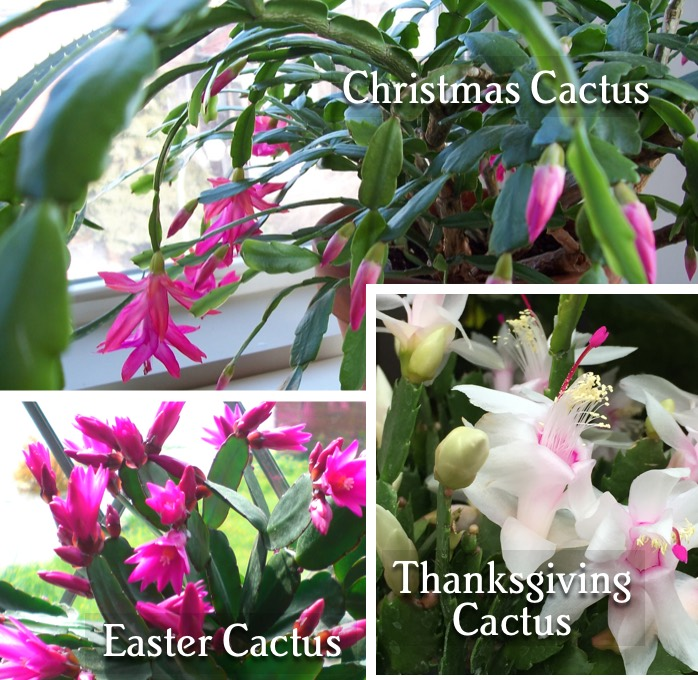
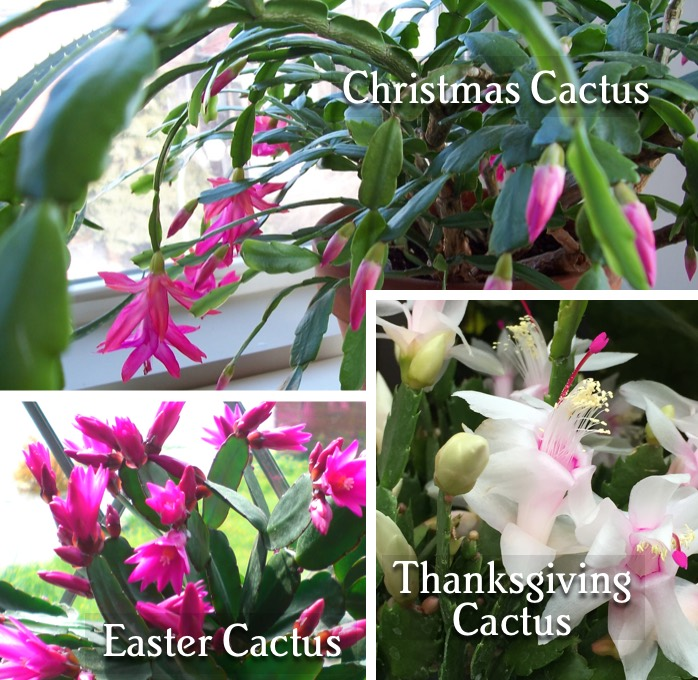
christmas cac tus

Changed region(s): [[0.5115, 0.4015, 1.0, 1.0], [0.692, 0.8647, 0.7221, 0.8956]]

diff --git a/current-news.html b/current-news.html
@@ -112,18 +112,11 @@
                                                                                 <tr>
                                                                                     <td style="border: 0px solid transparent; padding: 0 20px; color: #555555;width: 100%;">
 
- <div style="font-family:'Josefin Sans',Arial, Helvetica, sans-serif;font-size:24px;font-weight: 300;color:#555555;line-height:1.4;padding:0 10px;text-align: left; margin: 15px 0;">The Christmas cactus is native to tropical rain forests, unlike the vast majority of cacti, which grow in dry desert areas. In nature, this plant grows on trees and shrubs, its roots serving as a means of secure attachment to the host; most other cacti grow rooted in the ground. As a result of these dissimilarities and others, the Christmas cactus is cared for quite differently than most of its relatives.</div>
- <div style="font-family:'Josefin Sans',Arial, Helvetica, sans-serif;font-size:28px;font-weight: 300;color:#555555;line-height:1.4;padding:0 10px;text-align: center; margin: 15px 0;">Light</div>
- <div style="font-family:'Josefin Sans',Arial, Helvetica, sans-serif;font-size:24px;font-weight: 300;color:#555555;line-height:1.4;padding:0 10px;text-align: left; margin: 15px 0;">The Christmas cactus requires direct sunlight. However, during the summer months when light intensity is high this plant may need protection from the midday sun, which can burn the stems. Thus, during summer, move the plant a few feet from the window, close to sheer curtains, partially close to Venetian blinds, or place the plant in a window, which receives indirect light.</div>
- <div style="font-family:'Josefin Sans',Arial, Helvetica, sans-serif;font-size:28px;font-weight: 300;color:#555555;line-height:1.4;padding:0 10px;text-align: center; margin: 15px 0;">Water</div>
- <div style="font-family:'Josefin Sans',Arial, Helvetica, sans-serif;font-size:24px;font-weight: 300;color:#555555;line-height:1.4;padding:0 10px;text-align: left; margin: 15px 0;">The Christmas cactus should be watered when the top inch of soil in the container feels decidedly dry to the touch. Then, soak the soil thoroughly, until water comes through the drainage holes in the bottom of the pot. Wait 15 minutes and discard the excess water, which has accumulated in the drip plate beneath the container.</div>
- <div style="font-family:'Josefin Sans',Arial, Helvetica, sans-serif;font-size:28px;font-weight: 300;color:#555555;line-height:1.4;padding:0 10px;text-align: center; margin: 15px 0;">Humidity</div>
- <div style="font-family:'Josefin Sans',Arial, Helvetica, sans-serif;font-size:24px;font-weight: 300;color:#555555;line-height:1.4;padding:0 10px;text-align: left; margin: 15px 0;">This cactus grows best when humidity is high. The best way to increase humidity is to place the pot, with its drip plate, on a tray filled with small pebbles. Pour water over the pebbles, but do not allow the water to rise above the bottom of the top layer of pebbles. The water will evaporate from the tray and humidify the air around the plant.</div>
- <div style="font-family:'Josefin Sans',Arial, Helvetica, sans-serif;font-size:28px;font-weight: 300;color:#555555;line-height:1.4;padding:0 10px;text-align: center; margin: 15px 0;">Soil</div>
- <div style="font-family:'Josefin Sans',Arial, Helvetica, sans-serif;font-size:24px;font-weight: 300;color:#555555;line-height:1.4;padding:0 10px;text-align: left; margin: 15px 0;">A soil mix consisting of equal parts of peat moss, perlite and packaged potting soil is suitable for the Christmas cactus. Add 1-teaspoon dolomitic limestone and 1 teaspoon 5-10-5 fertilizer for each 2 quarts of soil used.</div>
- <div style="font-family:'Josefin Sans',Arial, Helvetica, sans-serif;font-size:28px;font-weight: 300;color:#555555;line-height:1.4;padding:0 10px;text-align: center; margin: 15px 0;">Fertilizer</div>
- <div style="font-family:'Josefin Sans',Arial, Helvetica, sans-serif;font-size:24px;font-weight: 300;color:#555555;line-height:1.4;padding:0 10px;text-align: left; margin: 15px 0;">Fertilize the plant with a water-soluble chemical fertilizer recommended for flowering houseplants. Water pot before fertilizing to prevent root damage; apply fertilizer every month at full strength or every 2 weeks at half the strength suggested on the label. Reduce the frequency of fertilization from autumn until after plants have flowered and new growth has begun.</div>
-																						</td>
+ <div style="font-family:'Josefin Sans',Arial, Helvetica, sans-serif;font-size:24px;font-weight: 300;color:#555555;line-height:1.4;padding:0 10px;text-align: left; margin: 15px 0;">Just a reminder: we will be closed on Thanksgiving but will be open Friday. We hope to see you on Small Business Saturday!</div>
+ <div style="font-family:'Josefin Sans',Arial, Helvetica, sans-serif;font-size:28px;font-weight: 300;color:#555555;line-height:1.4;padding:0 10px;text-align: center; margin: 15px 0;">Pictured is our November container: Thankful for Pink</div>
+ <div style="font-family:'Josefin Sans',Arial, Helvetica, sans-serif;font-size:24px;font-weight: 300;color:#555555;line-height:1.4;padding:0 10px;text-align: left; margin: 15px 0;">Our November container is one that could easily become part of your holiday decor! The central stunning plant is <em>Cordyline</em> ‘Red Star’ surrounded by blooming <em>Erica v.</em> ‘African Fanfare’.</div>
+ <div style="font-family:'Josefin Sans',Arial, Helvetica, sans-serif;font-size:24px;font-weight: 300;color:#555555;line-height:1.4;padding:0 10px;text-align: left; margin: 15px 0;">You'll find the full recipe on our <a target="_blank" href="https://portlandnursery.com/container-gardens/">Container Page.</a></div>
+																			</td>
 																					        </tr>
 												                                   </tbody>
                                                     						</table><!-- End Intro Article-->
@@ -160,7 +153,7 @@
                                                         <tbody>
                                                               <tr>
                                                                   <td style="border: 0px solid transparent; padding: 0; color: #555555;width: 100%;">
-                                                                   <div class="noWrapImageWrapper" style="text-align: center; margin: 10px 0 0; padding: 0;"><img alt="Roses" src="https://portlandnursery.com/newsletter/images/sales/bulbsale.jpg" style="margin: 0;display: inline;"></div>
+                                                                   <div class="noWrapImageWrapper" style="text-align: center; margin: 10px 0 0; padding: 0;"><img alt="Roses" src="https://portlandnursery.com/newsletter/images/sales/bulbsale2.jpg" style="margin: 0;display: inline;"></div>
                                                                  </td>
                                                               </tr>
                                                         </tbody>
@@ -203,46 +196,7 @@
                                             </td>
                                         </tr><!-- End Divider Row -->
 
-                                      <!-- ==================== Divider Row ===================== -->
-                                        <tr>
-                                            <td style="border: 0px solid transparent; padding: 0; color: #555555;width: 100%;">
-                                                <div style="text-align:center;" class="">
-                                                    <table border="0" cellpadding="0" cellspacing="0" width="100%" style="table-layout: fixed;">
-                                                        <tbody>
-                                                            <tr>
-                                                                <td style="border: 0px solid transparent; padding: 0 20px; color: #555555;width: 100%;">
-                                                                    <div class="noWrapImageWrapper" style="border-top:1px solid #CCC;text-align: center; margin: 20px 0; padding: 0;"><img alt="" src="https://portlandnursery.com/images-layout/spacer_CCCCCC.gif" style="margin: 0;display: inline;"></div>
-                                                                </td>
-                                                            </tr>
-                                                        </tbody>
-                                                    </table>
-                                                </div>
-                                            </td>
-                                        </tr><!-- End Divider Row -->
-
-                                        <!-- ==================== Divider Row ===================== -->
-
-                                        <tr>
-                                            <td style="border: 0px solid transparent; padding: 0; color: #555555;width: 100%;">
-                                                <div style="text-align:center;" class="">
-                                                    <table border="0" cellpadding="0" cellspacing="0" width="100%" style="table-layout: fixed;">
-                                                        <tbody>
-                                                            <tr>
-                                                                  <td style="border: 0px solid transparent; padding: 0; color: #555555;width: 100%;">
-                                                                   <div class="noWrapImageWrapper" style="text-align: center; margin: 10px 0 0; padding: 0;"><img alt="Roses" src="https://portlandnursery.com/newsletter/images/titles/wreathmaking.jpg" style="margin: 0;display: inline;"></div>
-                                                                 </td>
-                                                              </tr>
-                                                              <tr>
-                                                                  <td style="border: 0px solid transparent; padding: 0; color: #555555;width: 100%;">
-                                                                   <div class="noWrapImageWrapper" style="text-align: center; margin: 10px 0 0; padding: 0;"><img alt="Roses" src="https://portlandnursery.com/newsletter/images/wreathmaking.jpg" style="margin: 0;display: inline;"></div>
-                                                                 </td>
-                                                              </tr>
-                                                        </tbody>
-                                                    </table>
-                                                </div>
-                                            </td>
-                                        </tr><!-- End Divider Row -->
-                                                                                  <!-- ==================== Divider Row ===================== -->
+										<!-- ==================== Divider Row ===================== -->
 
                                         <tr>
                                             <td style="border: 0px solid transparent; padding: 0; color: #555555;width: 100%;">
@@ -281,11 +235,9 @@
                                                                <tr>
                                                               <td style="border: 0px solid transparent; padding: 0 20px; color: #555555;width: 100%;">
 
-                    <div style="font-family:'Josefin Sans',Arial, Helvetica, sans-serif;font-size:24px;font-weight: 300;color:#555555;line-height:1.4;padding:0 10px;text-align: left; margin: 15px 0;">three kinds of cactus</div>
+                    <div style="font-family:'Josefin Sans',Arial, Helvetica, sans-serif;font-size:24px;font-weight: 300;color:#555555;line-height:1.4;padding:0 10px;text-align: left; margin: 15px 0;">Cold weather predicted for this weekend. We have a few tips you can refer to this winter.</div>
 
-<div style="font-family:'Josefin Sans',Arial, Helvetica, sans-serif;font-size:24px;font-weight: 300;color:#555555;line-height:1.4;padding:0 10px;text-align: left; margin: 15px 0;">It’s a full weekend of celebrating nature through the arts, with proceeds benefiting Portland Audubon’s education and conservation efforts.</div>
-
-<div style="font-family:'Josefin Sans',Arial, Helvetica, sans-serif;font-size:24px;font-weight: 300;color:#555555;line-height:1.4;padding:0 10px;text-align: left; margin: 15px 0;">Learn more about the event on the <a target="_blank" href="https://www.wildartsfestival.org/about-the-festival">Portland Audubon website</a> and to purchase tickets ($10).</div>
+<div style="font-family:'Josefin Sans',Arial, Helvetica, sans-serif;font-size:24px;font-weight: 300;color:#555555;line-height:1.4;padding:0 10px;text-align: left; margin: 15px 0;">Bookmark our <a target="_blank" href="https://portlandnursery.com/resources/winter-prep/">Winter Prep page</a>.</div>
 
                                                                   </td>
                                                                </tr>
@@ -334,11 +286,13 @@
                                                                <tr>
                                                               <td style="border: 0px solid transparent; padding: 0 20px; color: #555555;width: 100%;">
 
-                    <div style="font-family:'Josefin Sans',Arial, Helvetica, sans-serif;font-size:24px;font-weight: 300;color:#555555;line-height:1.4;padding:0 10px;text-align: left; margin: 15px 0;">three kinds of cactus</div>
+                    <div style="font-family:'Josefin Sans',Arial, Helvetica, sans-serif;font-size:24px;font-weight: 300;color:#555555;line-height:1.4;padding:0 10px;text-align: left; margin: 15px 0;">Last week we mistakenly featured a 'Thanksgiving Cactus' in our article titled 'Christmas Cactus'. While the care is similar for all three, we wanted to let you know (thanks to a reader!) that we apologize for the error.</div>
 
-<div style="font-family:'Josefin Sans',Arial, Helvetica, sans-serif;font-size:24px;font-weight: 300;color:#555555;line-height:1.4;padding:0 10px;text-align: left; margin: 15px 0;">It’s a full weekend of celebrating nature through the arts, with proceeds benefiting Portland Audubon’s education and conservation efforts.</div>
+<div style="font-family:'Josefin Sans',Arial, Helvetica, sans-serif;font-size:24px;font-weight: 300;color:#555555;line-height:1.4;padding:0 10px;text-align: left; margin: 15px 0;">The Thanksgiving cactus has pointy side leaves and the Christmas cactus has more rounded ones. They both have about the same day length requirements for blooming and have been crossed so much that it is sometimes hard to tell which is which.</div>
 
-<div style="font-family:'Josefin Sans',Arial, Helvetica, sans-serif;font-size:24px;font-weight: 300;color:#555555;line-height:1.4;padding:0 10px;text-align: left; margin: 15px 0;">Learn more about the event on the <a target="_blank" href="https://www.wildartsfestival.org/about-the-festival">Portland Audubon website</a> and to purchase tickets ($10).</div>
+<div style="font-family:'Josefin Sans',Arial, Helvetica, sans-serif;font-size:24px;font-weight: 300;color:#555555;line-height:1.4;padding:0 10px;text-align: left; margin: 15px 0;">The third type – Easter cactus, with leaves more similar to the Christmas cactus, has slightly different light requirements. Refer to this brief article from the Iowa State Extension service: <a target="_blank" href="https://www.extension.iastate.edu/linn/news/it-thanksgiving-christmas-or-easter-cactus">Is it a Thanksgiving, Christmas or Easter Cactus?</a></div>
+
+<div style="font-family:'Josefin Sans',Arial, Helvetica, sans-serif;font-size:24px;font-weight: 300;color:#555555;line-height:1.4;padding:0 10px;text-align: left; margin: 15px 0;">You can refer back to last week's article (with new Christmas Cactus photo) by <a target="_blank" href="https://portlandnursery.com/newsletter/newsletters19/nov21-christmascactus.html">clicking here</a>.</div>
 
                                                                   </td>
                                                                </tr>

diff --git a/newsletters19/nov21-christmascactus.html b/newsletters19/nov21-christmascactus.html
@@ -91,7 +91,7 @@
                                                                                 <tr>
                                                                                     <td style="border: 0px solid transparent; padding: 10px; color: #555555; font-family: Arial, Helvetica, sans-serif; font-size: 11px;">
                                                                                         <div class="noWrapImageWrapper" style="text-align: center; margin:0; padding: 0;">
-                                                                                            <a href="https://portlandnursery.com"><img src="https://portlandnursery.com/newsletter/images/christmascactus.jpg" alt="Container" style=" margin: 0px; display: inline;" /></a>
+                                                                                            <a href="https://portlandnursery.com"><img src="https://portlandnursery.com/newsletter/images/christmascactus2.jpg" alt="Container" style=" margin: 0px; display: inline;" /></a>
 
                                                                                         </div>
                                                                                     </td>
